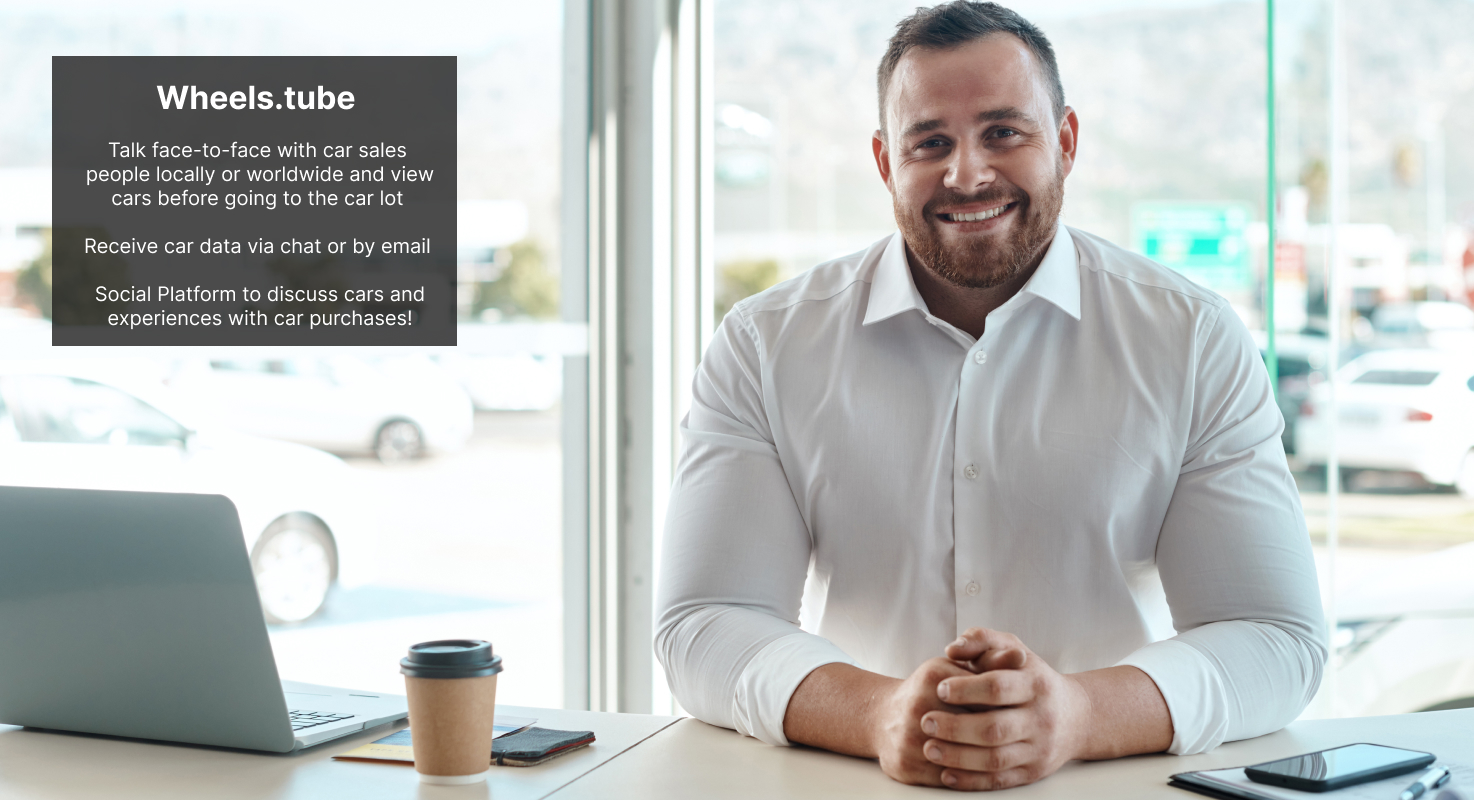
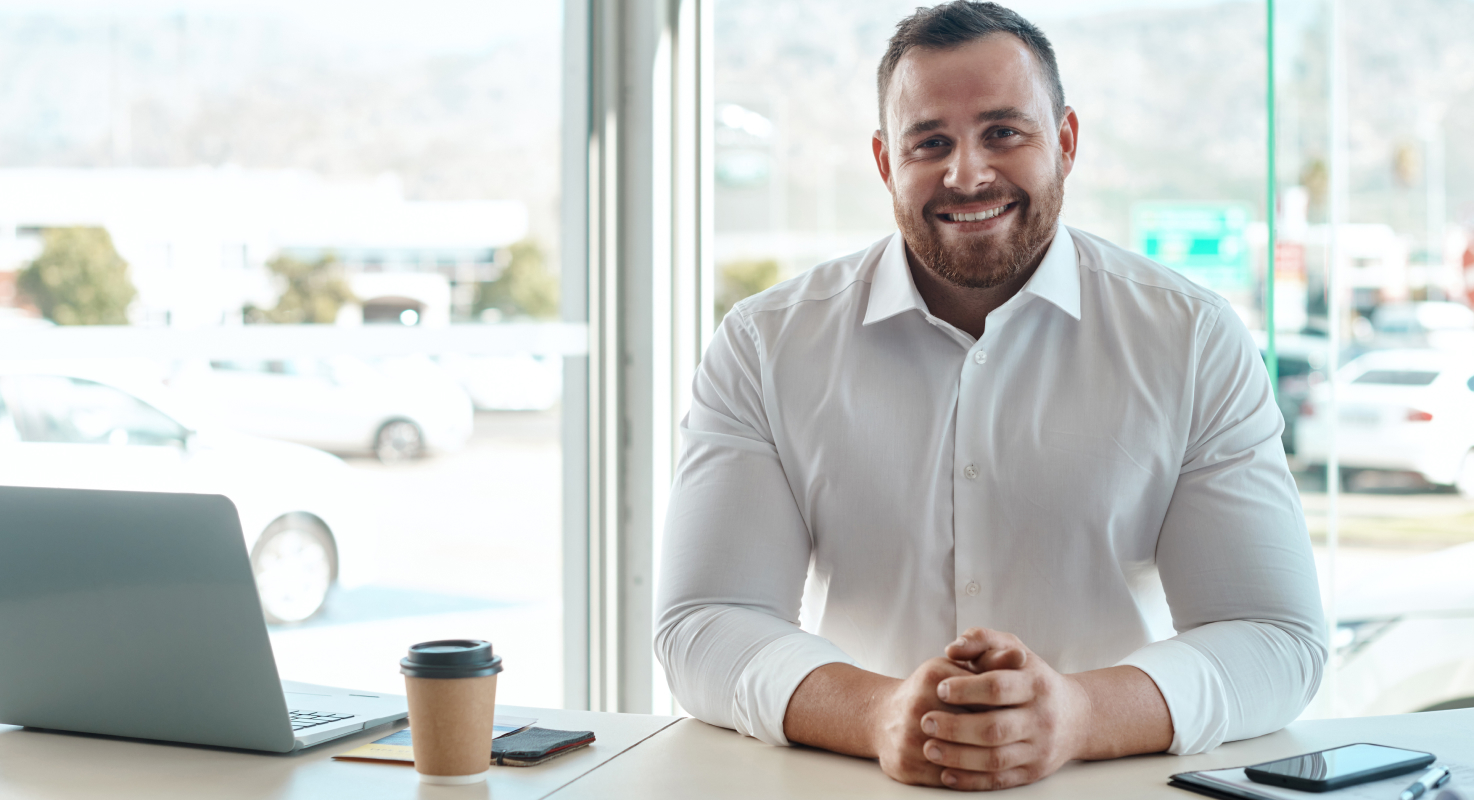
Responsive Image

Changed region(s): [[0.0312, 0.0625, 0.3121, 0.4375]]

diff --git a/src/app/layouts/auth-layout/pages/landing-page/landing-page.component.scss b/src/app/layouts/auth-layout/pages/landing-page/landing-page.component.scss
@@ -4,15 +4,16 @@
   // background: #11134d;
 
   .text-s {
-    font-size: min(max(16px, 1vw), 22px);
+    font-size: min(max(22px, 2vw), 42px);
+    font-weight: 600;
   }
   .c-fonts {
     // font-size: min(max(25px, 2vw), 44px);
-    font-size: 22px;
-    
-    @media (max-width: 999px) {
-      font-size: 16px;
-    }
+    // font-size: 22px;
+    font-size: min(max(16px, 1vw), 22px);
+    // @media (max-width: 999px) {
+    //   font-size: 16px;
+    // }
   }
 
   .custom-height {
@@ -20,23 +21,35 @@
     background-size: cover;
     background-repeat: no-repeat;
     object-fit: cover;
-    height: calc(100vh - 48px);
+    background-position: center;
+    height: calc(100vh);
     min-height: 400px;
 
     .banner-text {
-      display: none;
-      max-width: 600px;
       width: 100%;
+      max-width: 600px;
       background-color: #0b0d0ed4;
       border-radius: 5px;
-      padding: 40px;
-      height: 300px;
+      padding: 20px 40px;
+      // height: 300px;
+      // span {
+      //   h1 {
+      //     font-size: min(max(24px, 3vw),22px);
+      //     font-weight: 700;
+      //   }
+
+      //   h4 {
+      //     font-size: min(max(17px, 2vw),22px);
+      //   }
+      // }
     }
 
     @media (max-width: 600px) {
       min-height: 300px;
+      
     }
   }
+
   .sub-container {
     display: flex;
     flex-direction: column;
@@ -46,6 +59,7 @@
 
     .head-text {
       font-size: min(max(25px, 2vw), 36px) !important;
+
       @media (max-width: 684px) {
         line-height: 24px;
       }
@@ -55,8 +69,10 @@
       color: #11134d !important;
       font-size: min(max(14px, 2vw), 24px);
     }
+
     .c-width {
       max-width: 722px;
+
       // padding: 0 20px;
       @media (max-width: 684px) {
         line-height: 24px;
@@ -64,6 +80,7 @@
       }
     }
   }
+
   .c-footer {
     max-height: 530px;
     height: 100vh;
@@ -77,12 +94,14 @@
       font-size: min(max(15px, 2vw), 20px) !important;
       text-align: center;
       padding: 0 10px;
+
       @media (max-width: 600px) {
         line-height: 19px;
       }
     }
   }
 }
+
 // .bg-color {
 //   background: #11134d;
 // }
@@ -91,6 +110,7 @@
     // justify-content: center;
   }
 }
+
 .answers_main {
   padding: 30px 0;
   // padding: 30px 200px;
@@ -191,20 +211,13 @@
   }
 }
 
-.answers_main
-  .Answers_online__lw6jA
-  .Answers_rightAnswer___Ek_r
-  .Answers_internet__ywf41 {
+.answers_main .Answers_online__lw6jA .Answers_rightAnswer___Ek_r .Answers_internet__ywf41 {
   display: flex;
   align-items: flex-start;
   grid-gap: 10px;
 }
 
-.answers_main
-  .Answers_online__lw6jA
-  .Answers_rightAnswer___Ek_r
-  .Answers_internet__ywf41
-  p {
+.answers_main .Answers_online__lw6jA .Answers_rightAnswer___Ek_r .Answers_internet__ywf41 p {
   font-weight: 400;
   font-size: 18px;
   line-height: 24px;
@@ -213,20 +226,13 @@
   margin-bottom: 16px;
 }
 
-.answers_main
-  .Answers_online__lw6jA
-  .Answers_rightAnswer___Ek_r
-  .Answers_internet__ywf41
-  img {
+.answers_main .Answers_online__lw6jA .Answers_rightAnswer___Ek_r .Answers_internet__ywf41 img {
   width: 33px;
   height: 23px;
   margin-top: 6px;
 }
 
-.answers_main
-  .Answers_online__lw6jA
-  .Answers_rightAnswer___Ek_r
-  .Answers_internet__ywf41:last-child {
+.answers_main .Answers_online__lw6jA .Answers_rightAnswer___Ek_r .Answers_internet__ywf41:last-child {
   margin-bottom: 0;
 }
 
@@ -237,6 +243,7 @@
     border: #11134d;
     height: 38px;
   }
+
   .btn-outline {
     border-color: #11134d;
     color: #11134d;
@@ -257,9 +264,11 @@
   @media (min-width: 768px) {
     display: none;
   }
+
   @media (max-width: 768px) {
     display: block;
   }
+
   .c-btn {
     align-items: center;
     justify-content: center;
@@ -274,6 +283,7 @@
       fill: #fff;
     }
   }
+
   ul {
     a {
       display: flex;
@@ -295,6 +305,7 @@
     }
   }
 }
+
 ::ng-deep.c-button-landing {
   svg path {
     fill: #000428;

diff --git a/src/app/layouts/auth-layout/pages/landing-page/landing-page.component.html b/src/app/layouts/auth-layout/pages/landing-page/landing-page.component.html
@@ -29,25 +29,25 @@
 
   <div (click)="closeMenu()">
     <div
-      class="d-flex flex-column text-center py-10 custom-height justify-content-center"
+      class="d-flex flex-column text-center py-10 custom-height "
     >
     <div class="container">
-      <div class="row m-0 justify-content-end offset-0">
-        <div class="col-md-6 banner-text">
-          <!-- <span class="pb-2 pb-lg-4">
-            <i class="text-white text-s">Worldwide Freedom is the Buzzzz!</i>
+      <div class="row m-0 justify-content-start offset-0">
+        <div class="d-flex flex-column col-md-6 banner-text">
+          <span class="text-white text-s">
+            Wheels.tube
           </span>
-          <span class="pb-4">
-            <i class="text-white text-s">No AI and we DO NOT sell your data</i>
-          </span> -->
-          <!-- <span class="text-white c-fonts text-center mt-3">
-            Private video consultations with Naturopathic Doctors <br />
-            and Holistic Healers from around the world
+           <span class="text-white c-fonts text-center mt-3">
+            Talk face-to-face with car sales <br />people locally or worldwide and view <br />cars before going to the car lot 
           </span>
-          <span class="text-white c-fonts py-6 mt-10 text-center"
-            >Social Discussion on how to heal various ailments</span
-          > -->
+          <span class="text-white c-fonts py-4 text-center">
+            Receive car data via chat or by email</span
+          >
+          <span class="text-white c-fonts text-center"
+          >Social Platform to discuss cars and<br/>experiences with car purchases!</span
+        >
         </div>
+       
       </div>
     </div>
     </div>

diff --git a/src/app/layouts/main-layout/pages/home/post-detail/post-detail.component.ts b/src/app/layouts/main-layout/pages/home/post-detail/post-detail.component.ts
@@ -6,7 +6,7 @@ import {
   PLATFORM_ID,
 } from '@angular/core';
 import { Meta } from '@angular/platform-browser';
-import { ActivatedRoute } from '@angular/router';
+import { ActivatedRoute, Router } from '@angular/router';
 import { NgxSpinnerService } from 'ngx-spinner';
 import { PostService } from 'src/app/@shared/services/post.service';
 import { SeoService } from 'src/app/@shared/services/seo.service';
@@ -29,14 +29,18 @@ export class PostDetailComponent implements OnInit {
     public sharedService: SharedService,
     private route: ActivatedRoute,
     private seoService: SeoService,
+    private router: Router,
     @Inject(PLATFORM_ID) private platformId: Object
   ) {
     if (isPlatformBrowser(this.platformId)) {
-      this.postId = this.route.snapshot.paramMap.get('id');
-      // console.log('route', this.route);
-      if (this.postId) {
-        this.getPostsByPostId();
-      }
+      this.router.events.subscribe((event: any) => {
+        const id = event?.routerEvent?.url.split('/')[2];
+        console.log(id);
+        this.postId = id;
+        if (this.postId) {
+          this.getPostsByPostId();
+        }
+      });
     }
   }
 
